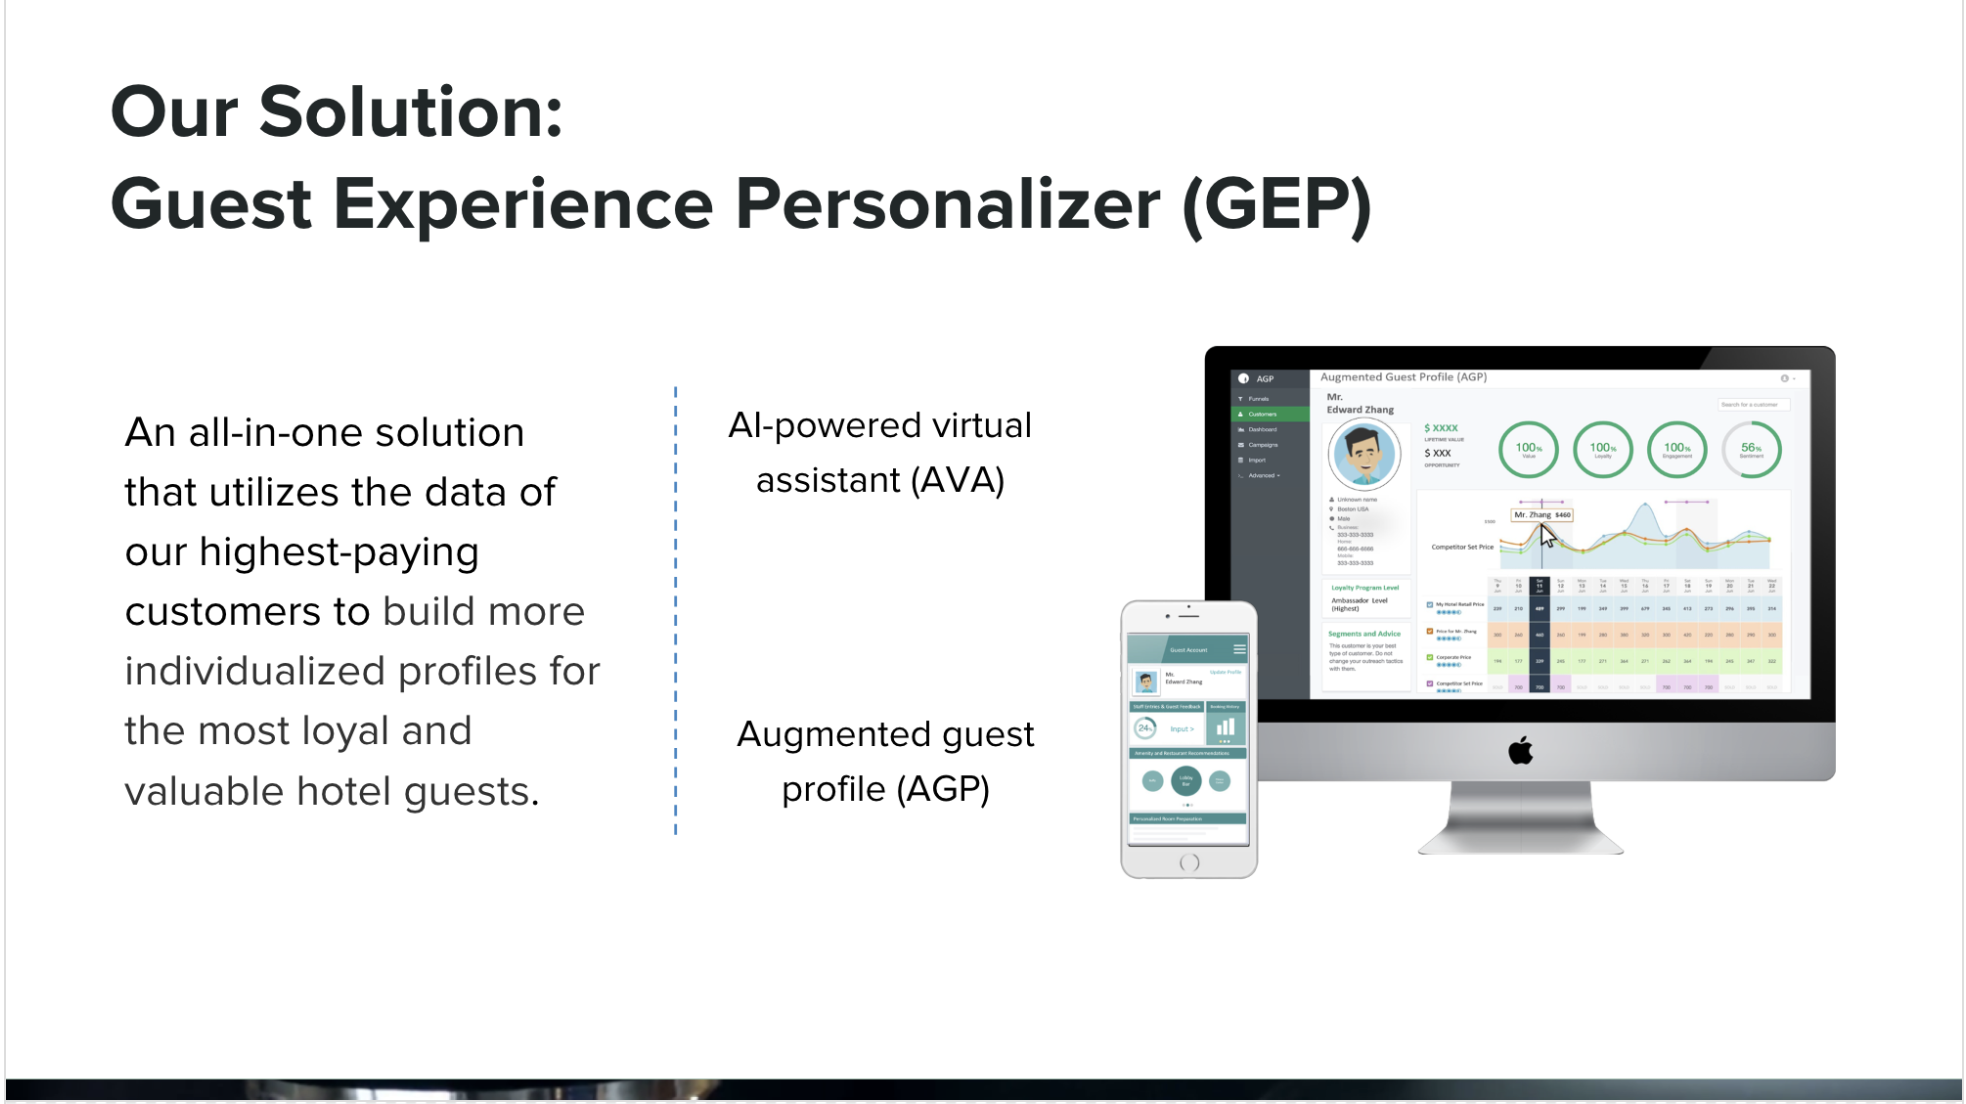
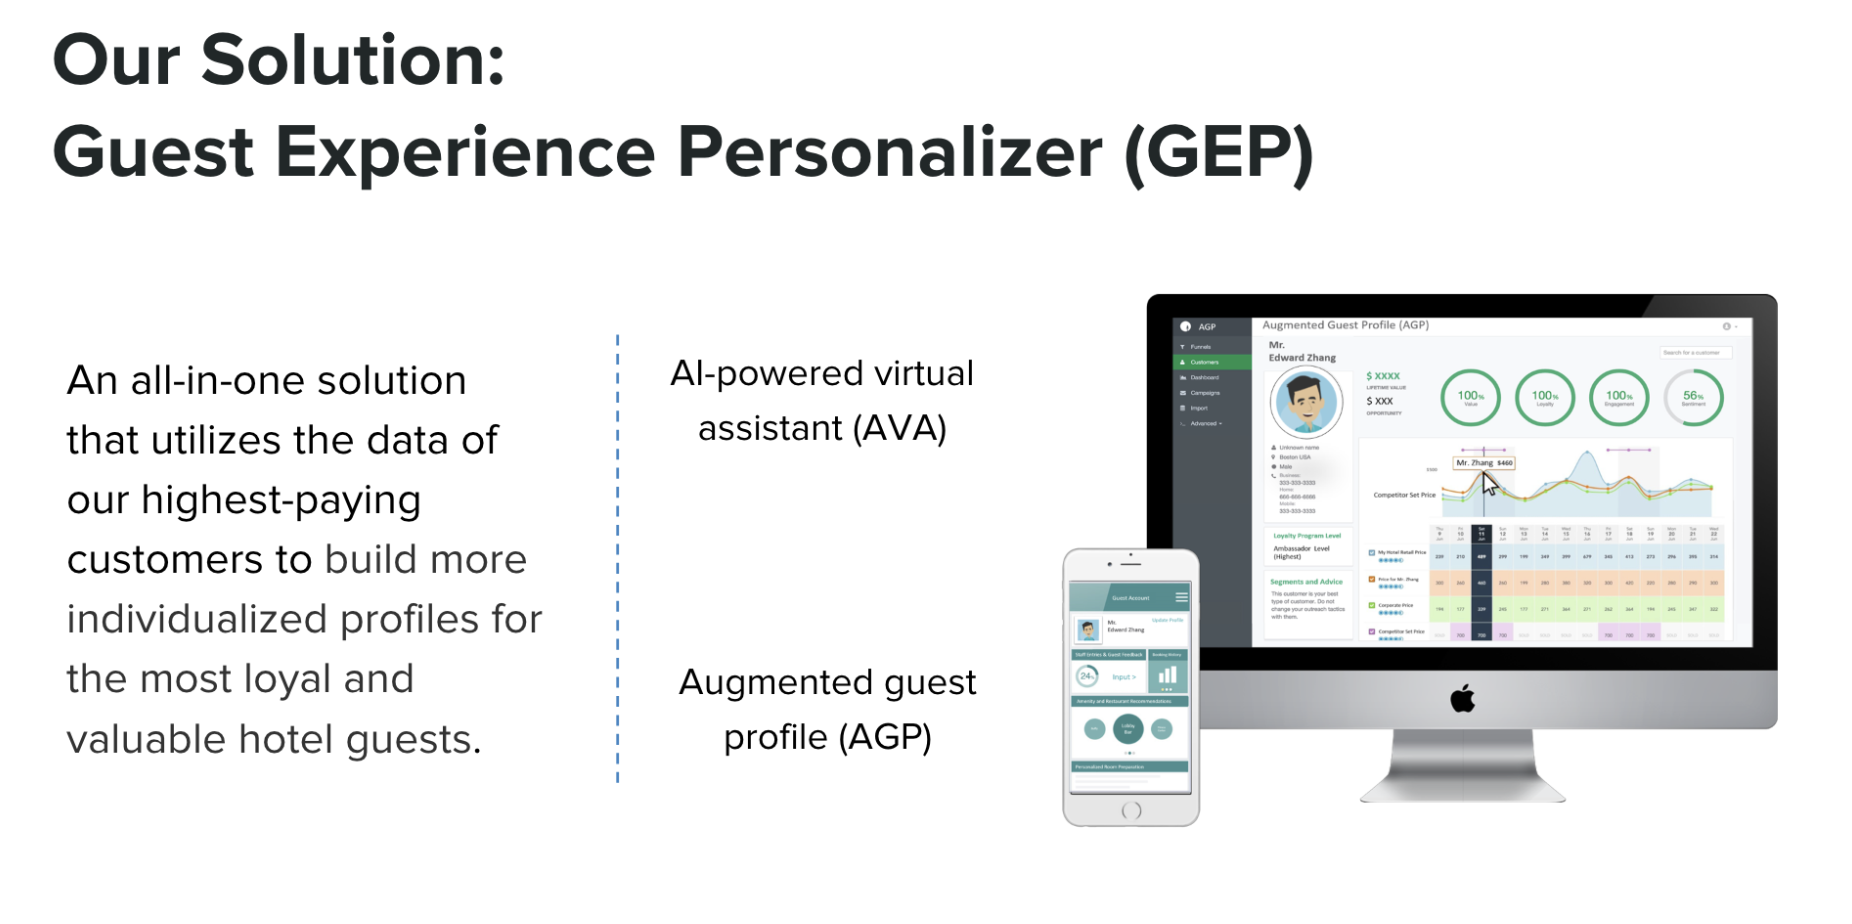
update RD

diff --git a/Research_Design/README.md b/Research_Design/README.md
@@ -7,4 +7,4 @@ One of my ideals (**Hotel Guest Experience Personalizer**) is selected in the cl
 
   Presentation Slides       |  Video Demo
 :-------------------------:|:-------------------------:
-[![Project Slides](https://github.com/CongyingChen/Data-Science-Portfolio/blob/master/Research_Design/code/slides_picture.png)](https://github.com/CongyingChen/Data-Science-Portfolio/blob/master/Research_Design/Guest_Experience_Personalizer_Slides.pdf)  |  [![Project video demo](https://github.com/CongyingChen/Data-Science-Portfolio/blob/master/Research_Design/code/video_picture.png)](https://drive.google.com/file/d/1MbKdP3_y5XJoYJTzlzqDrDNnq7ZsLHc4/view?usp=sharing)
+[![Project Slides](https://github.com/CongyingChen/Data-Science-Portfolio/blob/master/Research_Design/code/slides_picture.png | width=100)](https://github.com/CongyingChen/Data-Science-Portfolio/blob/master/Research_Design/Guest_Experience_Personalizer_Slides.pdf)  |  [![Project video demo](https://github.com/CongyingChen/Data-Science-Portfolio/blob/master/Research_Design/code/video_picture.png | width=100)](https://drive.google.com/file/d/1MbKdP3_y5XJoYJTzlzqDrDNnq7ZsLHc4/view?usp=sharing)
